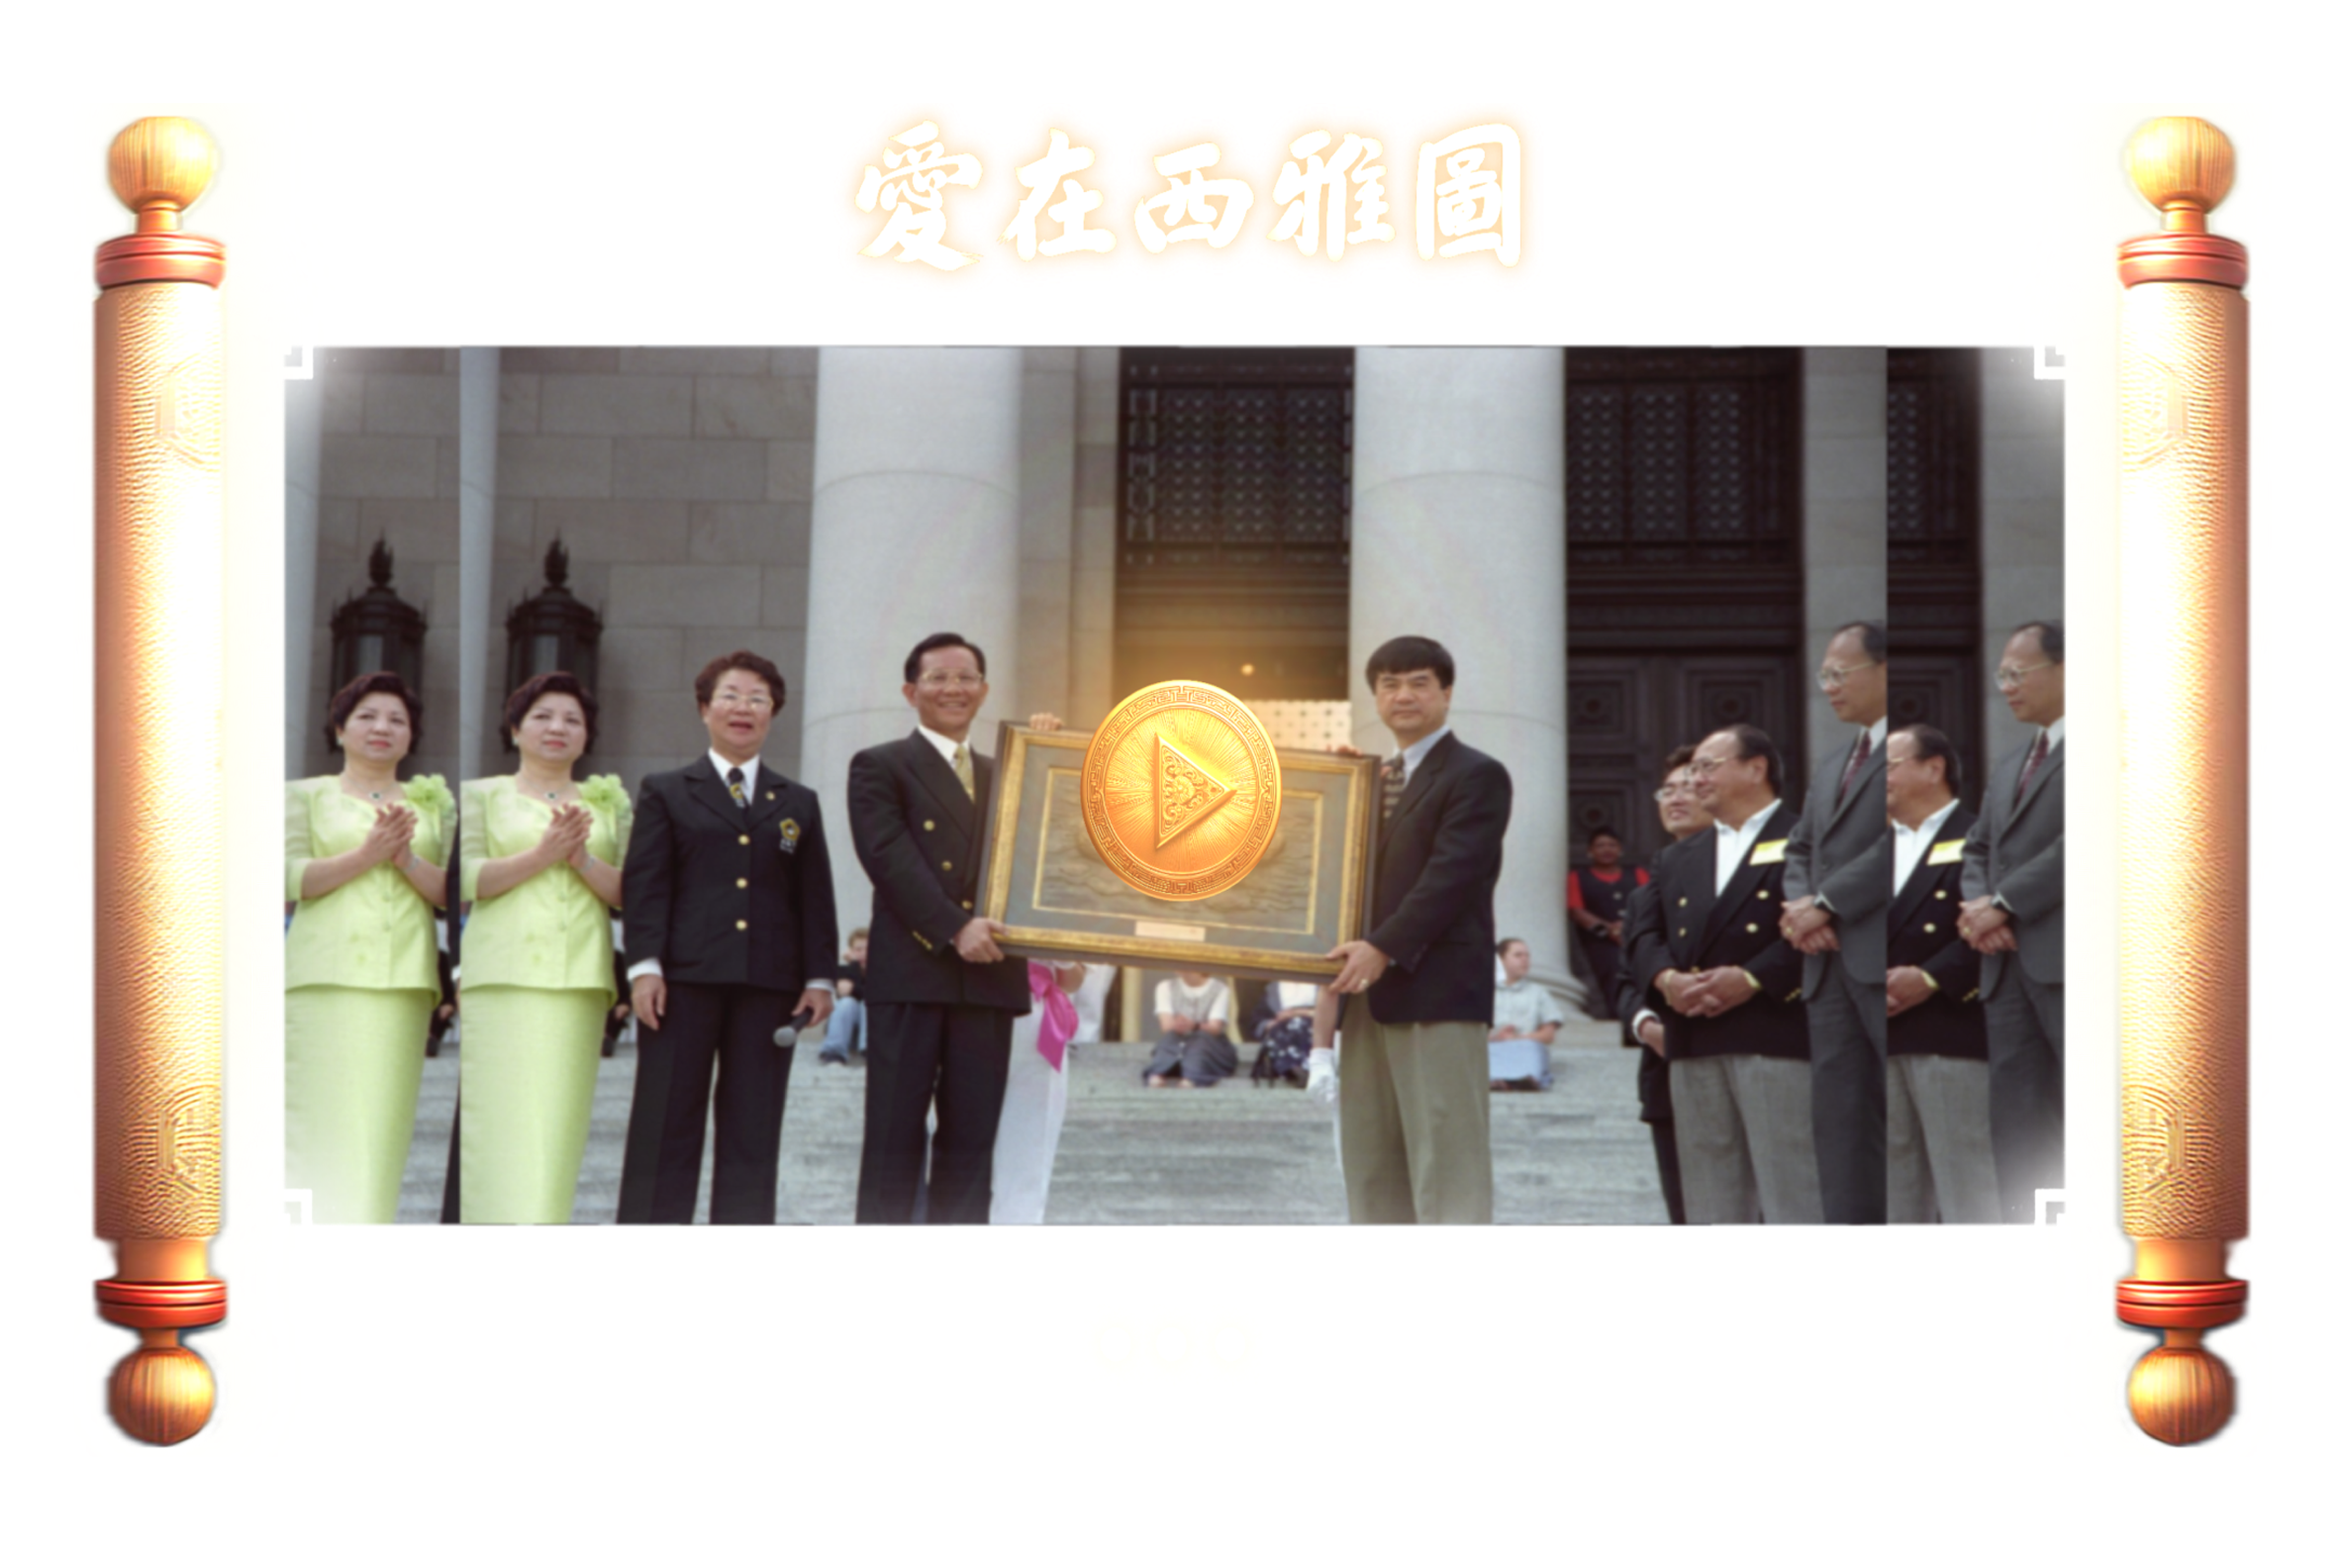
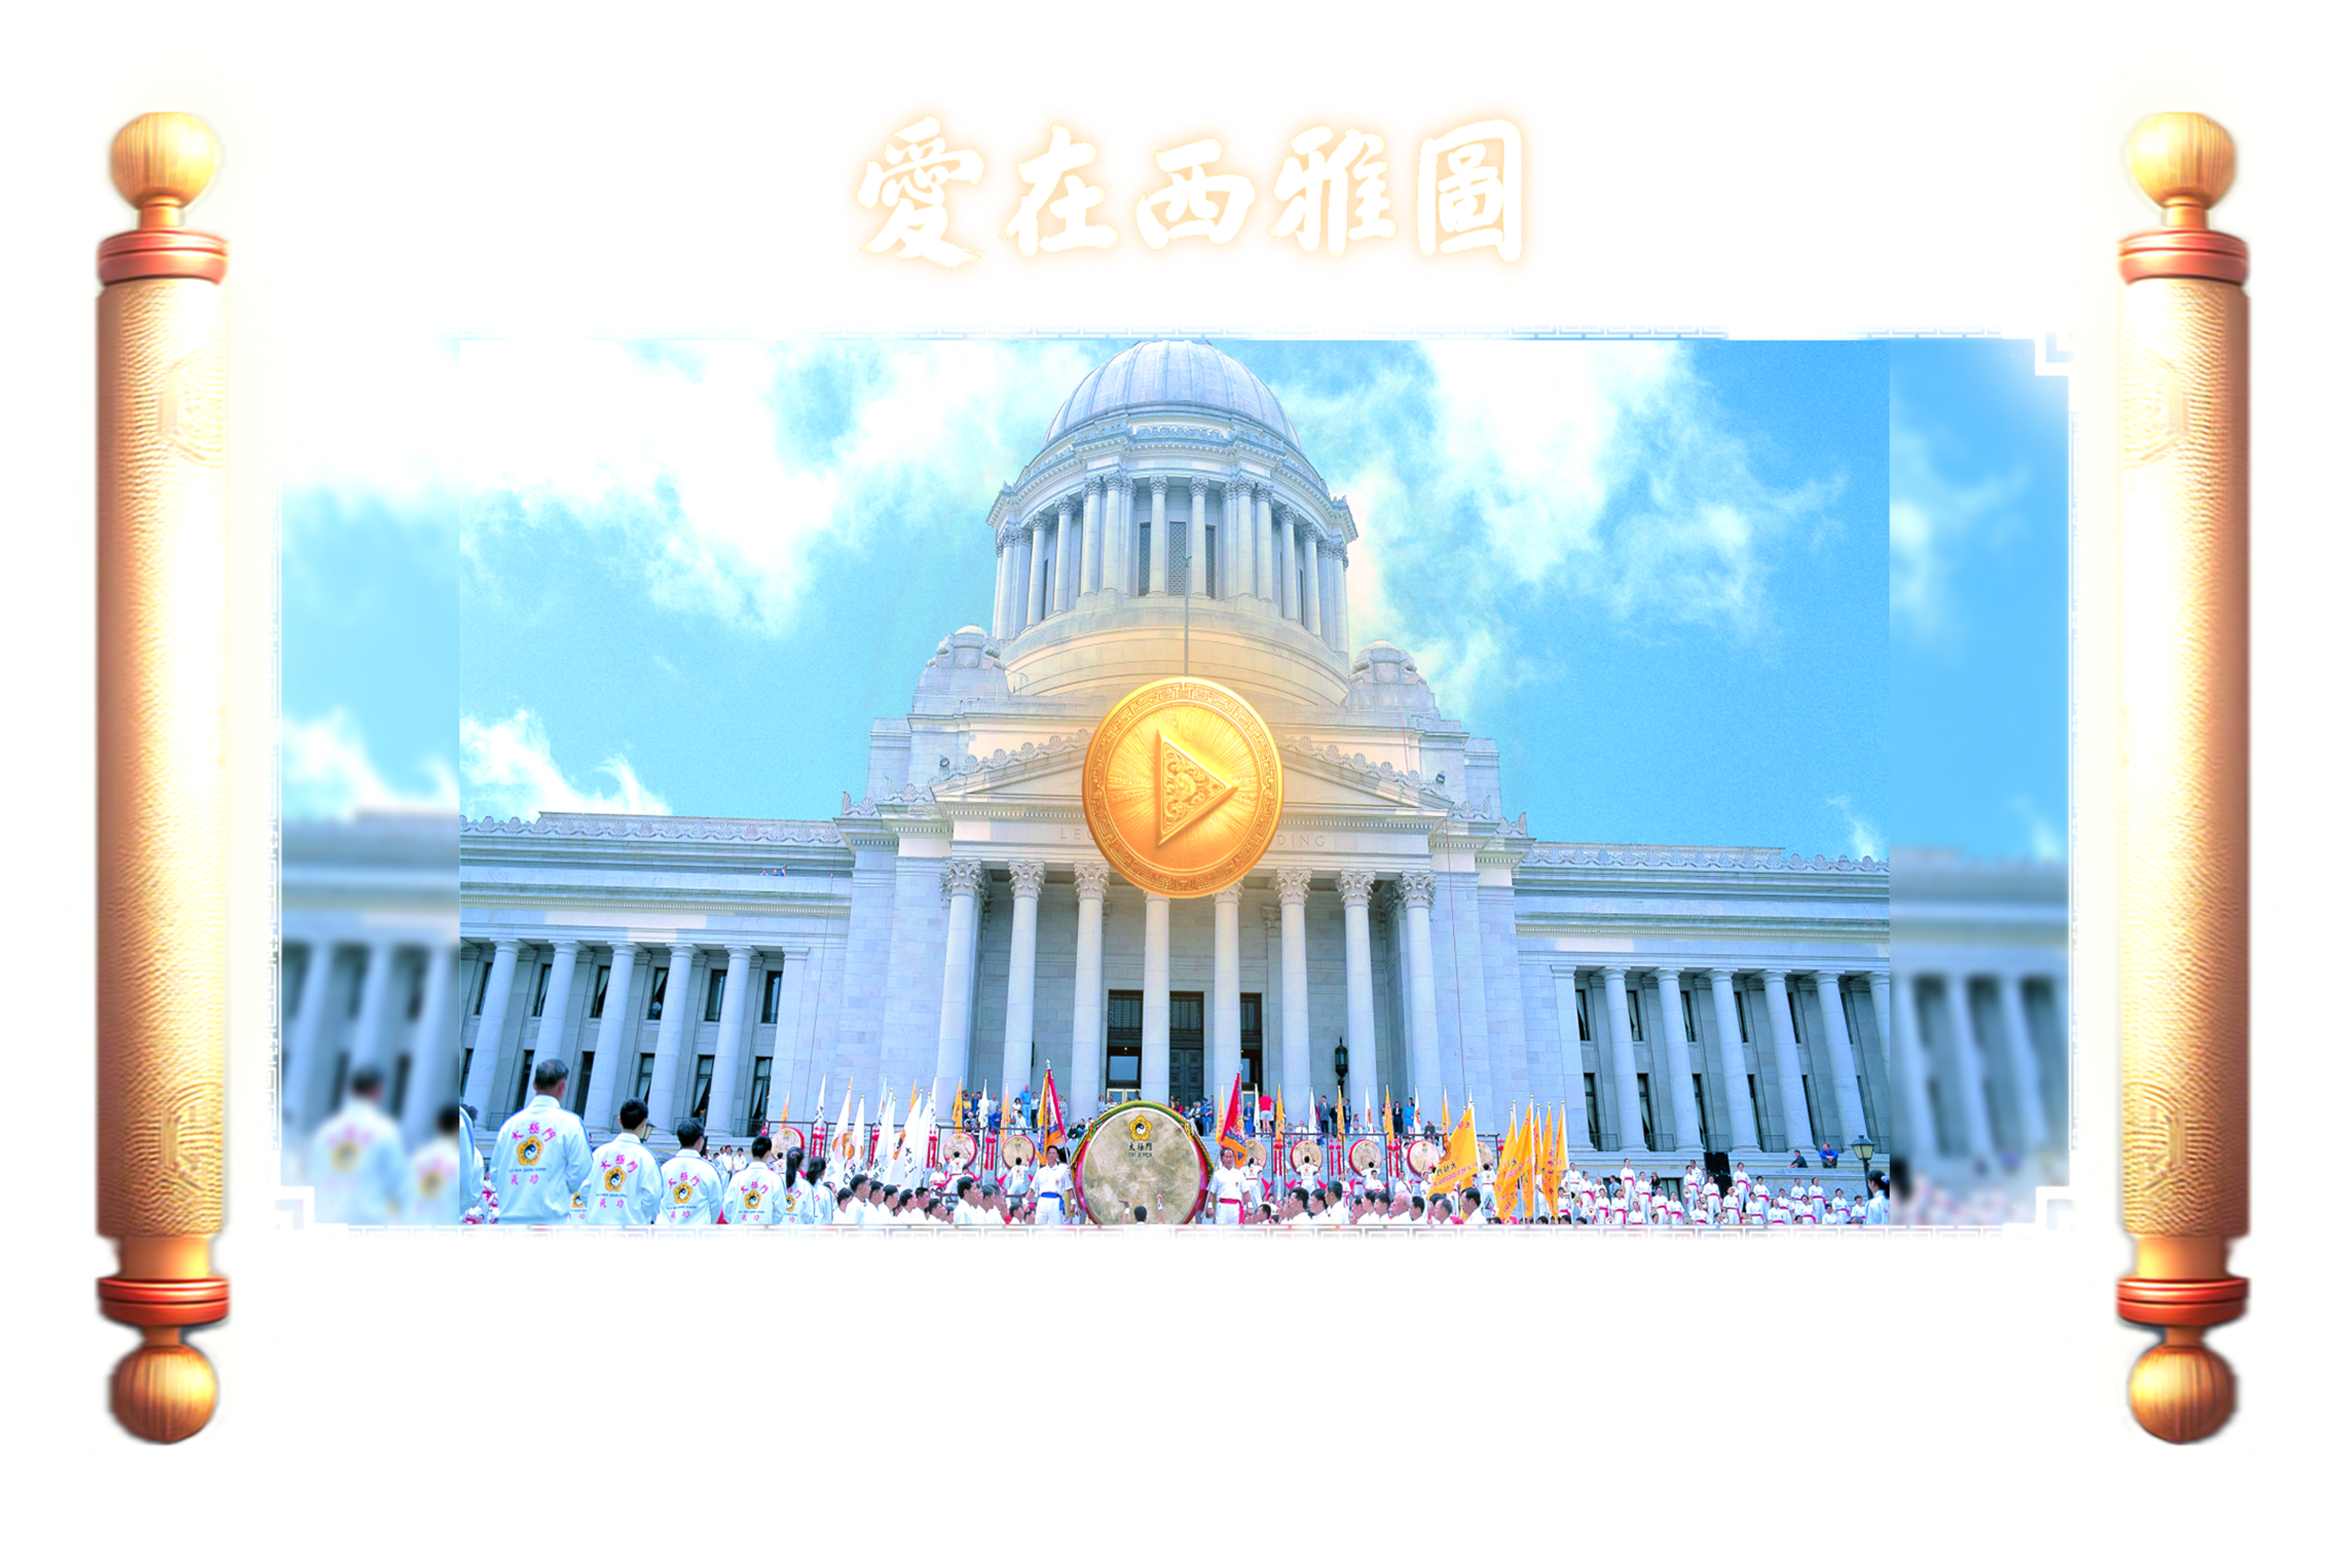
feat: update movie content

diff --git a/components/Movie/Carousel.js b/components/Movie/Carousel.js
@@ -8,8 +8,8 @@ import { useState } from 'react'
 
 const movies = [
   {
-    title: '千禧龍舞橫貫美利堅',
-    url: 'https://sqps.onstreamsecure.com/origin/taijimen/html5/bf2d2fb3-593c-498d-9ae5-f0b51e78d5be.mp4',
+    title: '愛在飛揚西雅圖',
+    url: 'https://sqps.onstreamsecure.com/origin/taijimen/html5/V_EF10411_2.mp4',
     image: '/movie/01.jpg',
   },
   {
